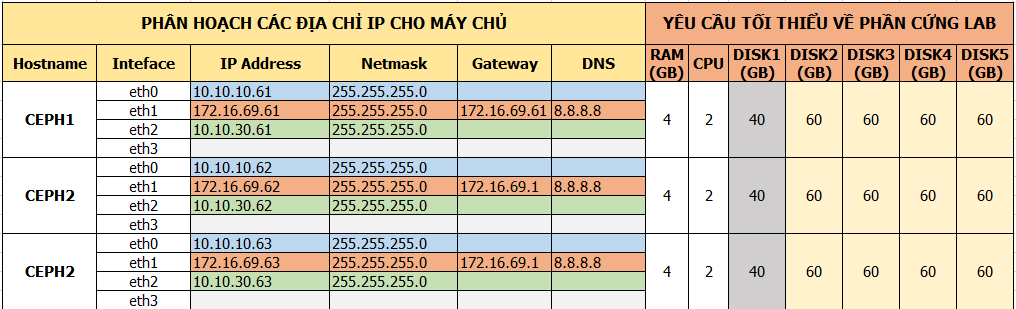
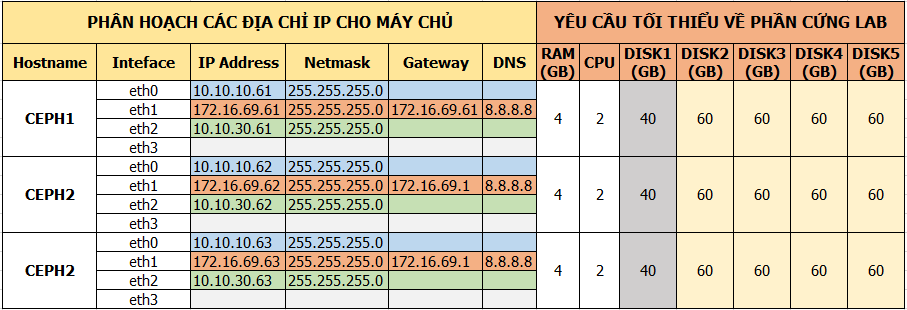
cập nhật ip

diff --git a/installation/huongdan_caidat_jewel.md b/installation/huongdan_caidat_jewel.md
@@ -3,7 +3,7 @@ Mục lục:
 
 - [1. Các bước chuẩn bị](#1)
   - [1.1. Mô hình LAB](#1.1)
-  - [1.2. IP Planning](#1.2)
+  - [1.2. Phân hoạch IP và phần cứng yêu cầu đối với mô hình LABs](#1.2)
 - [2. Thiết lập ip, hostname cho các máy chủ CEPH](#2)
   - [2.1. Thiết lập ip, hostname cho các máy chủ CEPH](#2.1)
   - [2.2. Thiết lập ip, hostname cho các máy chủ CEPH](#2.2)
@@ -38,7 +38,7 @@ Mục lục:
 Chú ý: Số Node (Mon+Osd) nên cấu hình là 3 node để số lượng Object đc replicate đúng. Có thể cấu hình 1 node, dùng bình thường nhưng check ceph status sẽ báo pgs degrate.
 
 <a name="1.2"></a>
-###  1.2 IP Planning
+###  1.2 Phân hoạch IP và phần cứng yêu cầu đối với mô hình LABs
 
 ![IP Planning](../images/ip-planning-for-ceph2.png)
 
